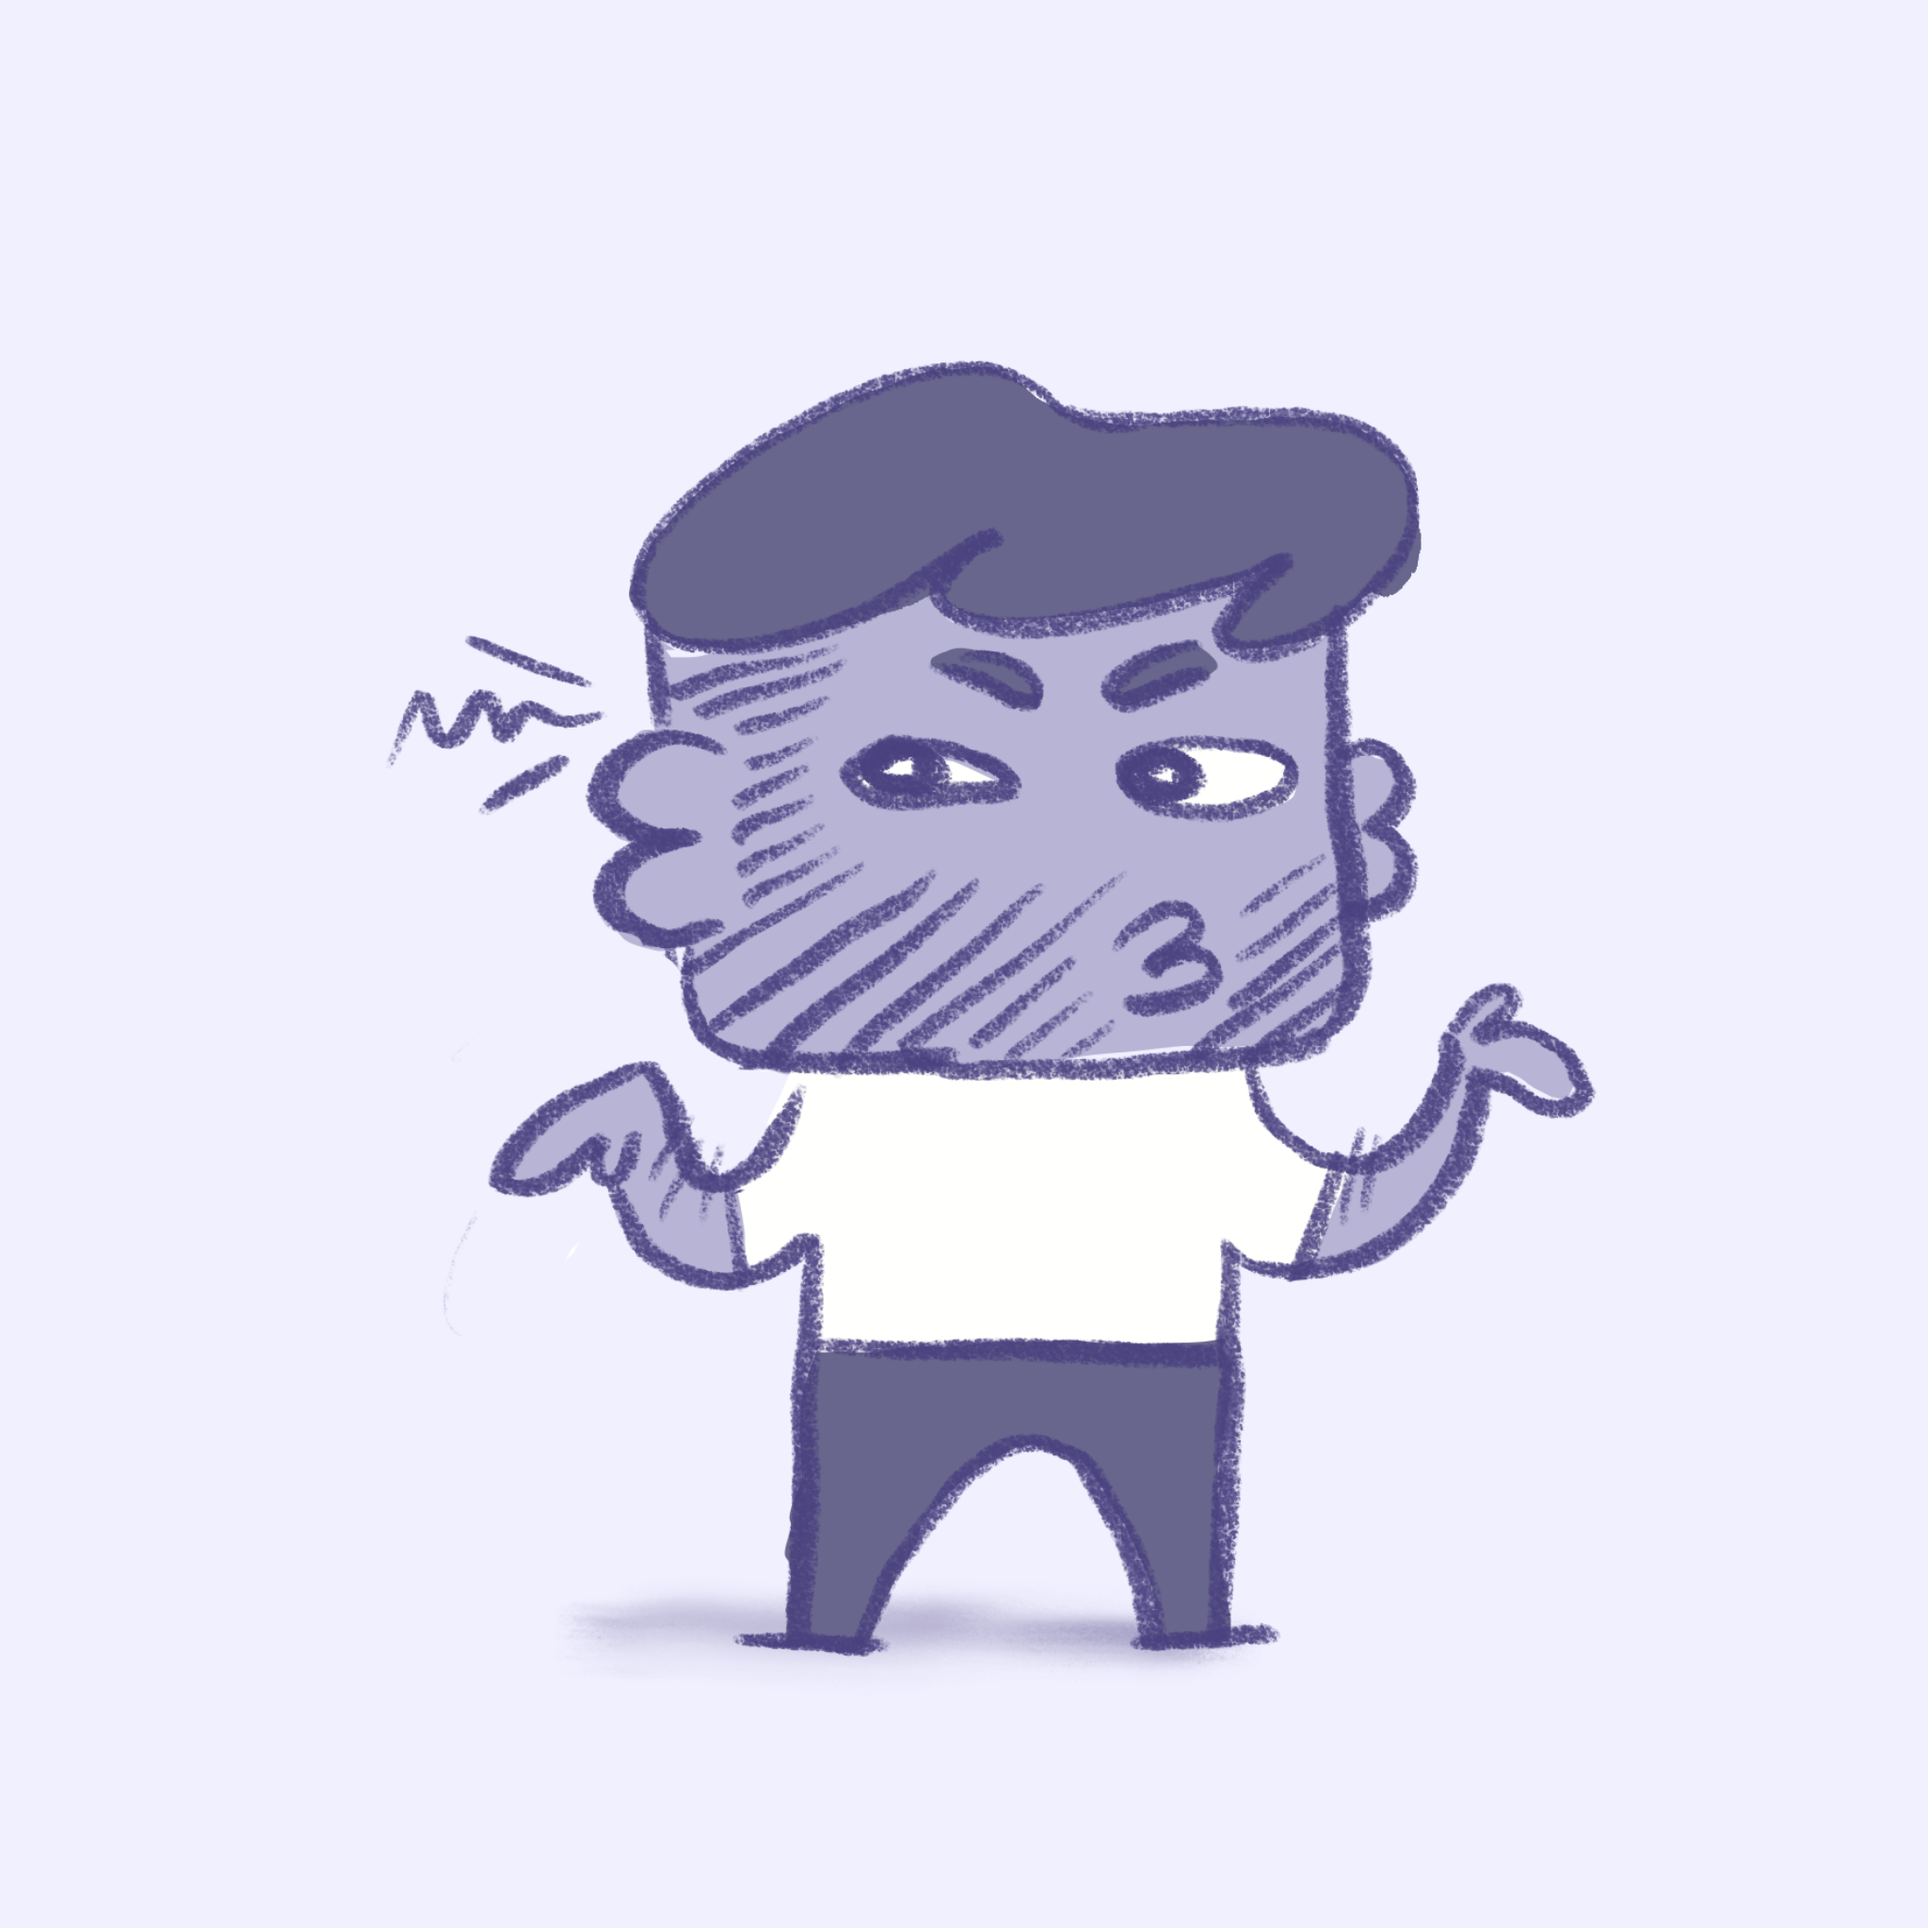
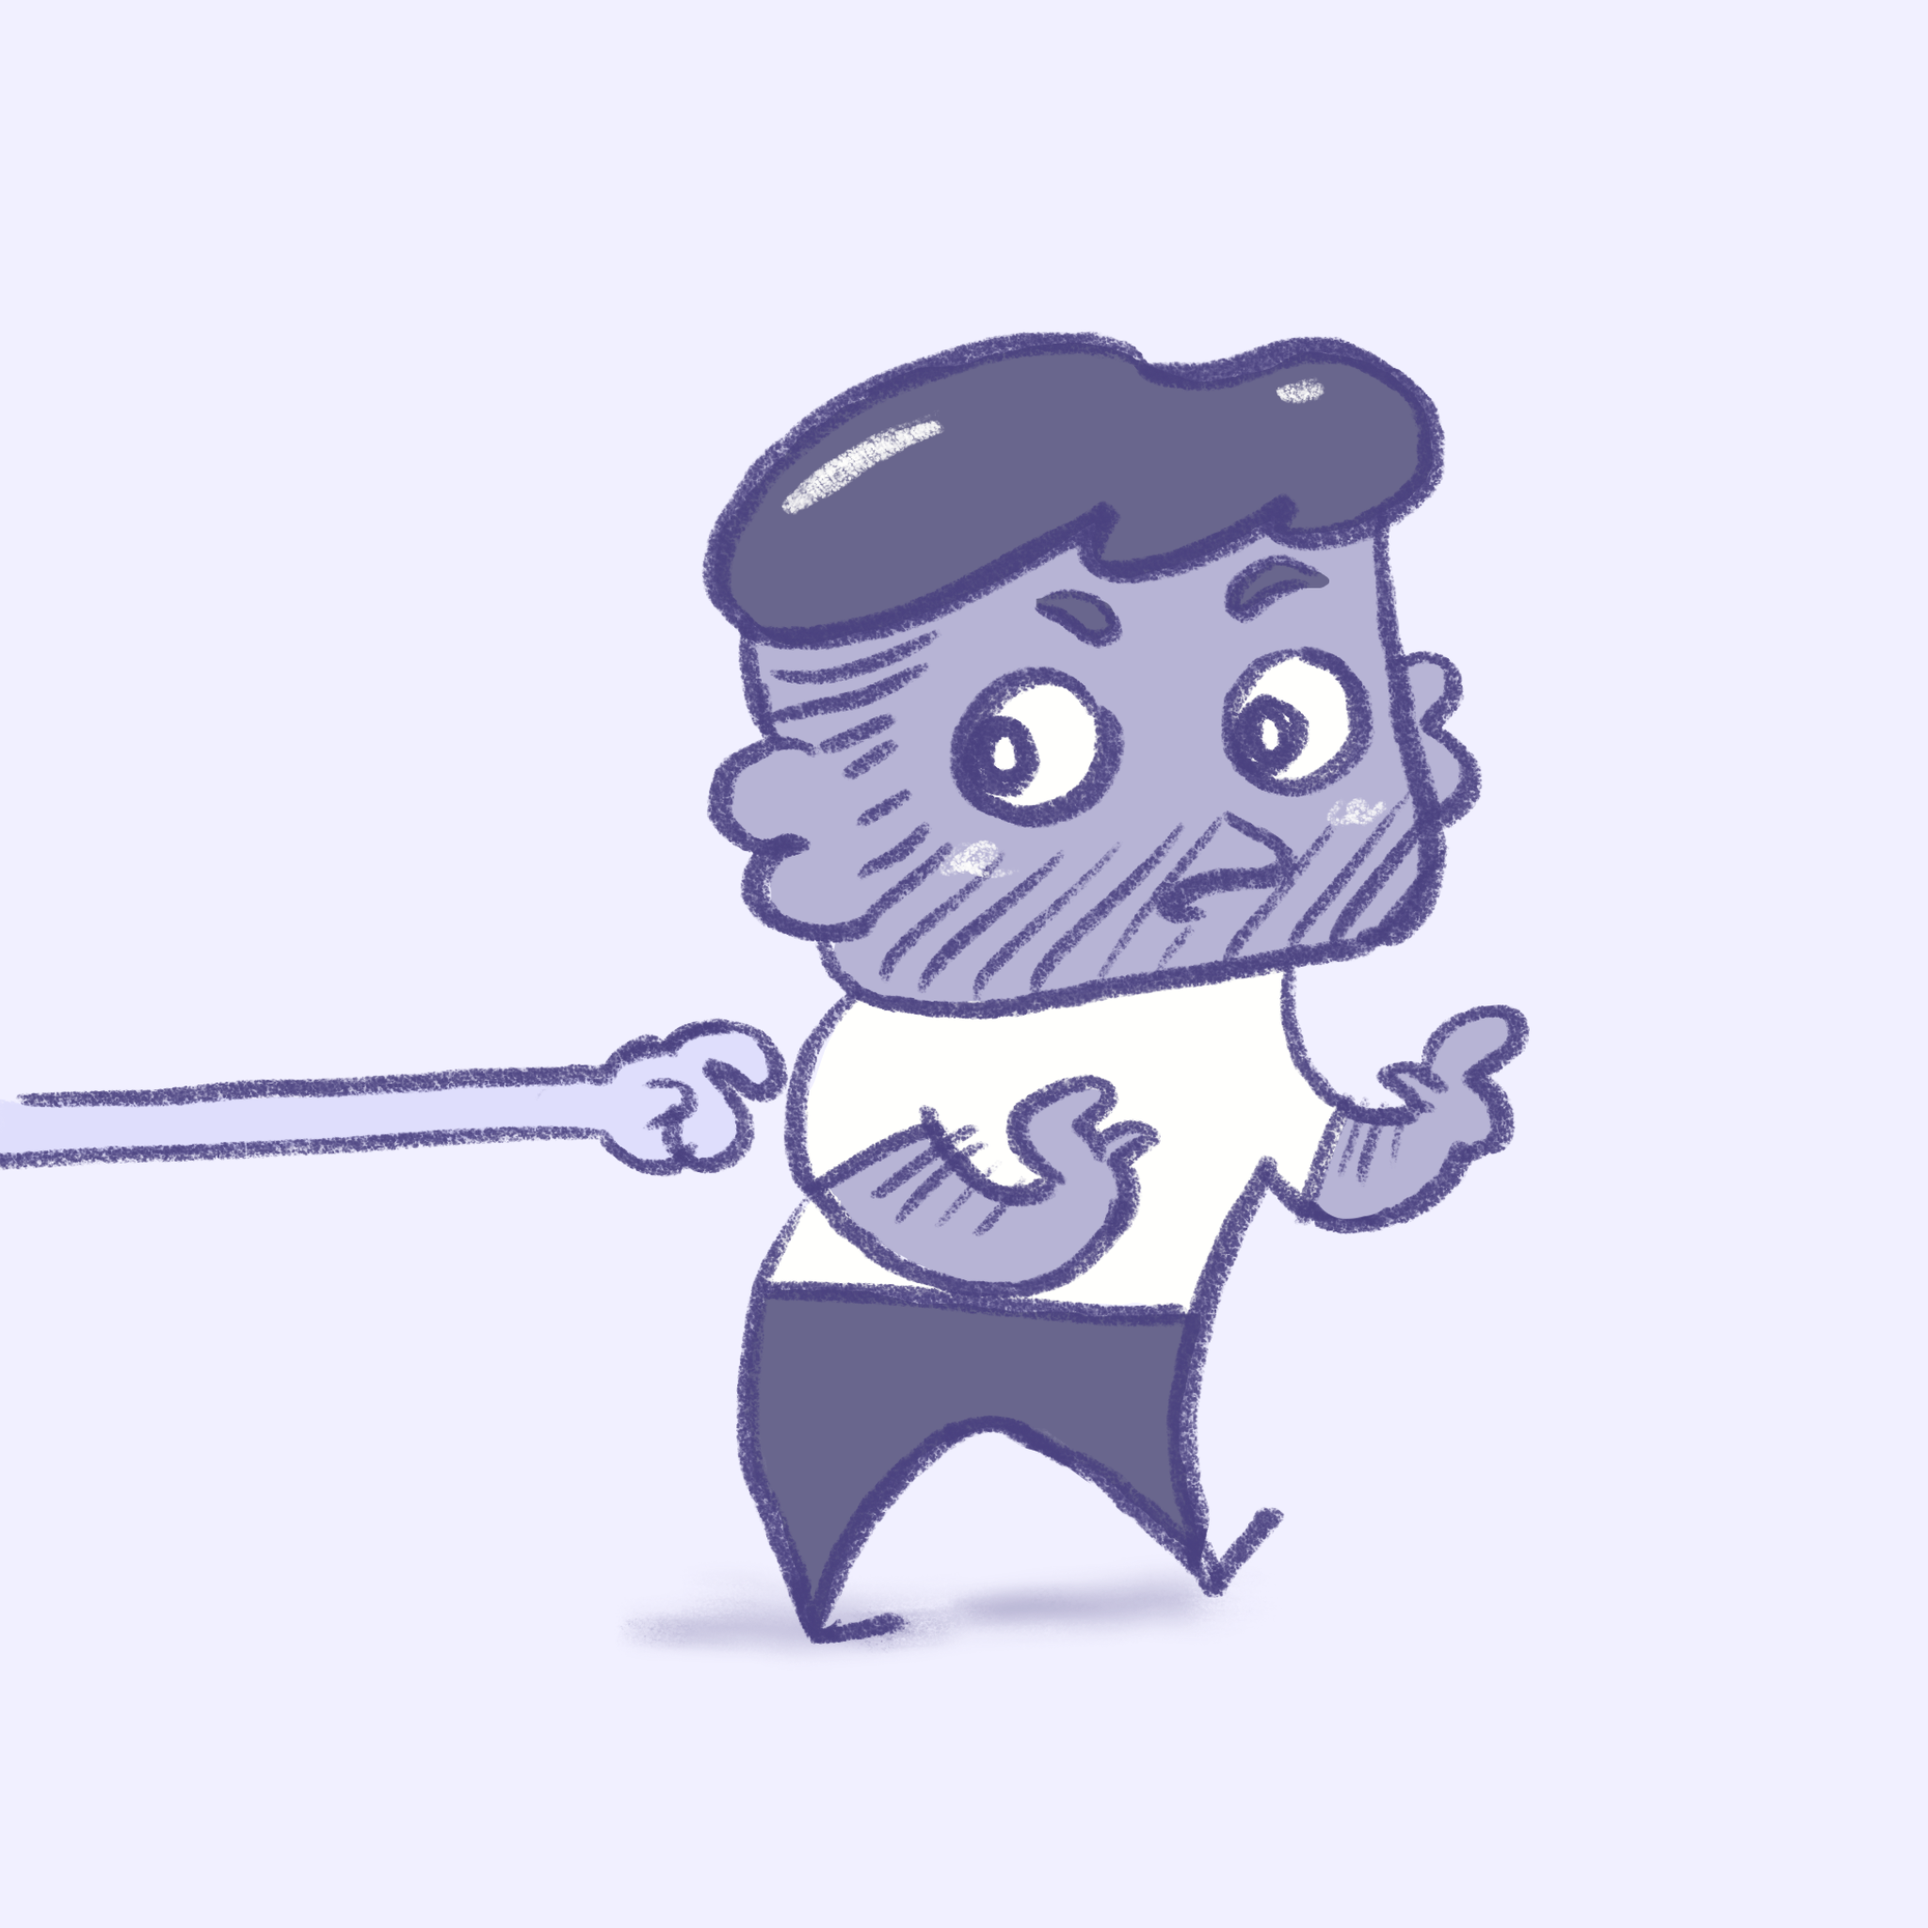
added new comic 142

Changed region(s): [[0.0, 0.1562, 0.8438, 0.875], [0.3125, 0.8125, 0.3438, 0.8438]]

diff --git a/index.html b/index.html
@@ -20,7 +20,7 @@
       href="https://fonts.googleapis.com/css2?family=Concert+One&family=IM+Fell+English:ital@1&family=Work+Sans&display=swap"
       rel="stylesheet"
     />
-    <link href="css.css?_t=20220411" rel="stylesheet" type="text/css" />
+    <link href="css.css?_t=20260624" rel="stylesheet" type="text/css" />
     <script src="https://unpkg.com/vue"></script>
     <script>
       window['_fs_debug'] = false;
@@ -49,13 +49,13 @@
   </head>
 
   <body>
-    <header>
-      <h1>
-        <img src="img/bits.png" alt="Bits" />
-        <small>Just A Bit</small>
-      </h1>
-    </header>
     <div id="app">
+      <header>
+        <h1>
+          <img src="img/bits.png" alt="Bits" />
+          <a v-on:click="info">Just A Bit</a>
+        </h1>
+      </header>
       <div v-bind:aria-hidden="showShare || showInfo? true : null">
         <main id="comics">
           <figure id="0">
@@ -2106,6 +2106,22 @@
             <p>This question made me sad- because there is not better type or person. No one is a villain or a hero.</p>
             <p>We are just.</p>
           </figure>
+          <figure id="142">
+            <figure-image figure-id="142"></figure-image>
+            <figure-caption figure-id="142">
+              Tag - I quit.
+            </figure-caption>
+            <figure-time
+              datetime="2026-06-24T05:01:30.000Z"
+              title="Jun 24, 2026"
+            ></figure-time>
+            <p>I was playing tag with my nephews and their friends and at one point one of them said... </p>
+            <p>"Tag - I quit."</p>
+            <p>I thought this was so funny at the time, because you CAN stop if you are tired or bored at ANY point.</p>
+            <p>But part of me always feels like that we need to go, go, go and stay busy. But it's also okay to say...</p>
+            <p>"I quit."</p>
+            <p>Especially when you're on top.</p>
+          </figure>
         </main>
         <footer>
           With 💜
@@ -2125,10 +2141,6 @@
           <button v-on:click="share">
             <svg xmlns="http://www.w3.org/2000/svg" width="24" height="24" viewBox="0 0 24 24" fill="none" stroke="currentColor" stroke-width="2" stroke-linecap="round" stroke-linejoin="round"><circle cx="18" cy="5" r="3"></circle><circle cx="6" cy="12" r="3"></circle><circle cx="18" cy="19" r="3"></circle><line x1="8.59" y1="13.51" x2="15.42" y2="17.49"></line><line x1="15.41" y1="6.51" x2="8.59" y2="10.49"></line></svg>
             <span>Share</span>
-          </button>
-          <button v-on:click="info">
-            <svg xmlns="http://www.w3.org/2000/svg" width="24" height="24" viewBox="0 0 24 24" fill="none" stroke="currentColor" stroke-width="2" stroke-linecap="round" stroke-linejoin="round"><circle cx="12" cy="12" r="10"></circle><line x1="12" y1="16" x2="12" y2="12"></line><line x1="12" y1="8" x2="12.01" y2="8"></line></svg>
-            <span>Info</span>
           </button>
           <button v-bind:disabled="current == max" v-on:click="newer">
             <span>Newer</span>

diff --git a/css.css b/css.css
@@ -16,8 +16,15 @@ h1 {
   text-transform: uppercase;
   color: #746f98;
 }
-h1 small {
+h1 a {
   display: block;
+  font-size: 2.3rem;
+  text-decoration: underline;
+  cursor: pointer;
+  color: #746f98;
+}
+h1 a:hover,h1 a:active {
+  text-decoration: underline wavy;
 }
 
 main {
@@ -207,7 +214,6 @@ p:last-of-type::after {
 
 nav {
   position: fixed;
-  width: 80vw;
   bottom: 3px;
   display: flex;
   justify-content: space-around;
@@ -215,10 +221,30 @@ nav {
   max-width: 600px;
   left: 50vw;
   transform: translateX(-50%);
+  background: rgba(255, 255, 255, 0.8);
+  border: 1px solid;
+  color: #49417d;
+  border-radius: 1.5rem;
+  overflow: hidden;
 }
 
-button.nav,
 nav button {
+  background: none;
+  border: none;
+  color: #49417d;
+  border-right: 1px solid;
+  font-family: "Concert One", cursive;
+  font-size: 1.5rem;
+  padding: 0.3rem 0.5rem;
+  cursor: pointer;
+  display: inline-flex;
+  align-items: center;
+}
+nav button:last-child {
+  border-right: 0;
+}
+
+button.nav {
   background: none;
   border: none;
   color: #49417d;
@@ -232,6 +258,7 @@ nav button {
   display: inline-flex;
   align-items: center;
 }
+
 button.nav:disabled,
 nav button:disabled {
   background: transparent !important;
@@ -245,10 +272,6 @@ nav button span {
   font-size: 1rem;
   vertical-align: text-top;
   padding: 0 4px;
-  /*
-  text-shadow: #fff 2px 2px, #fff -2px -2px, #fff -2px 2px, #fff 2px -2px,
-    #fff 2px 0px, #fff 0px -2px, #fff 0px 2px, #fff -2px 0px;
-    */
 }
 
 button.nav:active,
@@ -257,13 +280,6 @@ nav button:active,
 nav button:hover {
   background-color: #49417d;
   color: #fff;
-}
-
-button.nav:active span,
-button.nav:hover span,
-nav button:active span,
-nav button:hover span {
-  text-shadow: none;
 }
 
 #info,
@@ -283,7 +299,7 @@ footer {
   font-style: italic;
   opacity: 0.8;
   max-width: 600px;
-  margin: 0 auto 4rem auto;
+  margin: 0 auto 10rem auto;
   text-indent: 3rem;
 }
 
